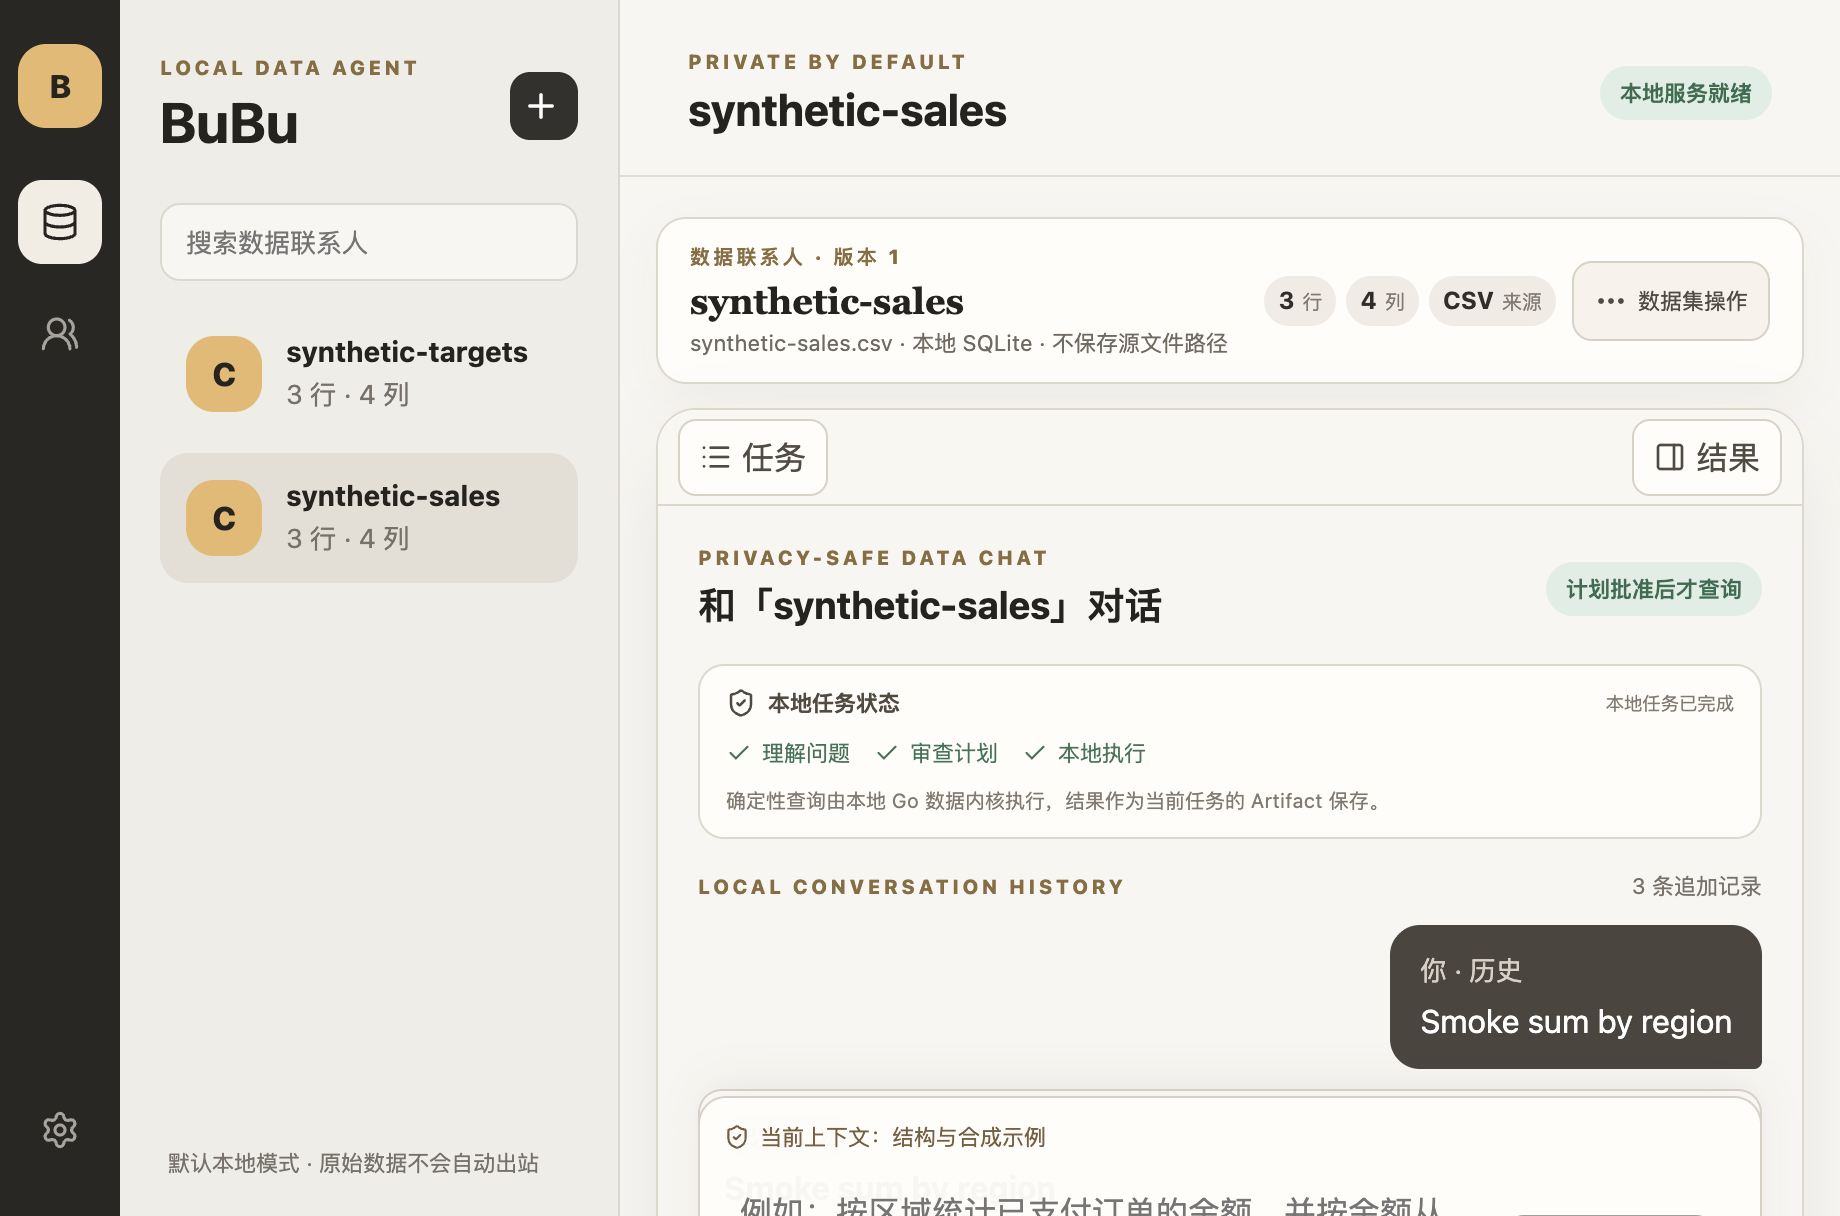
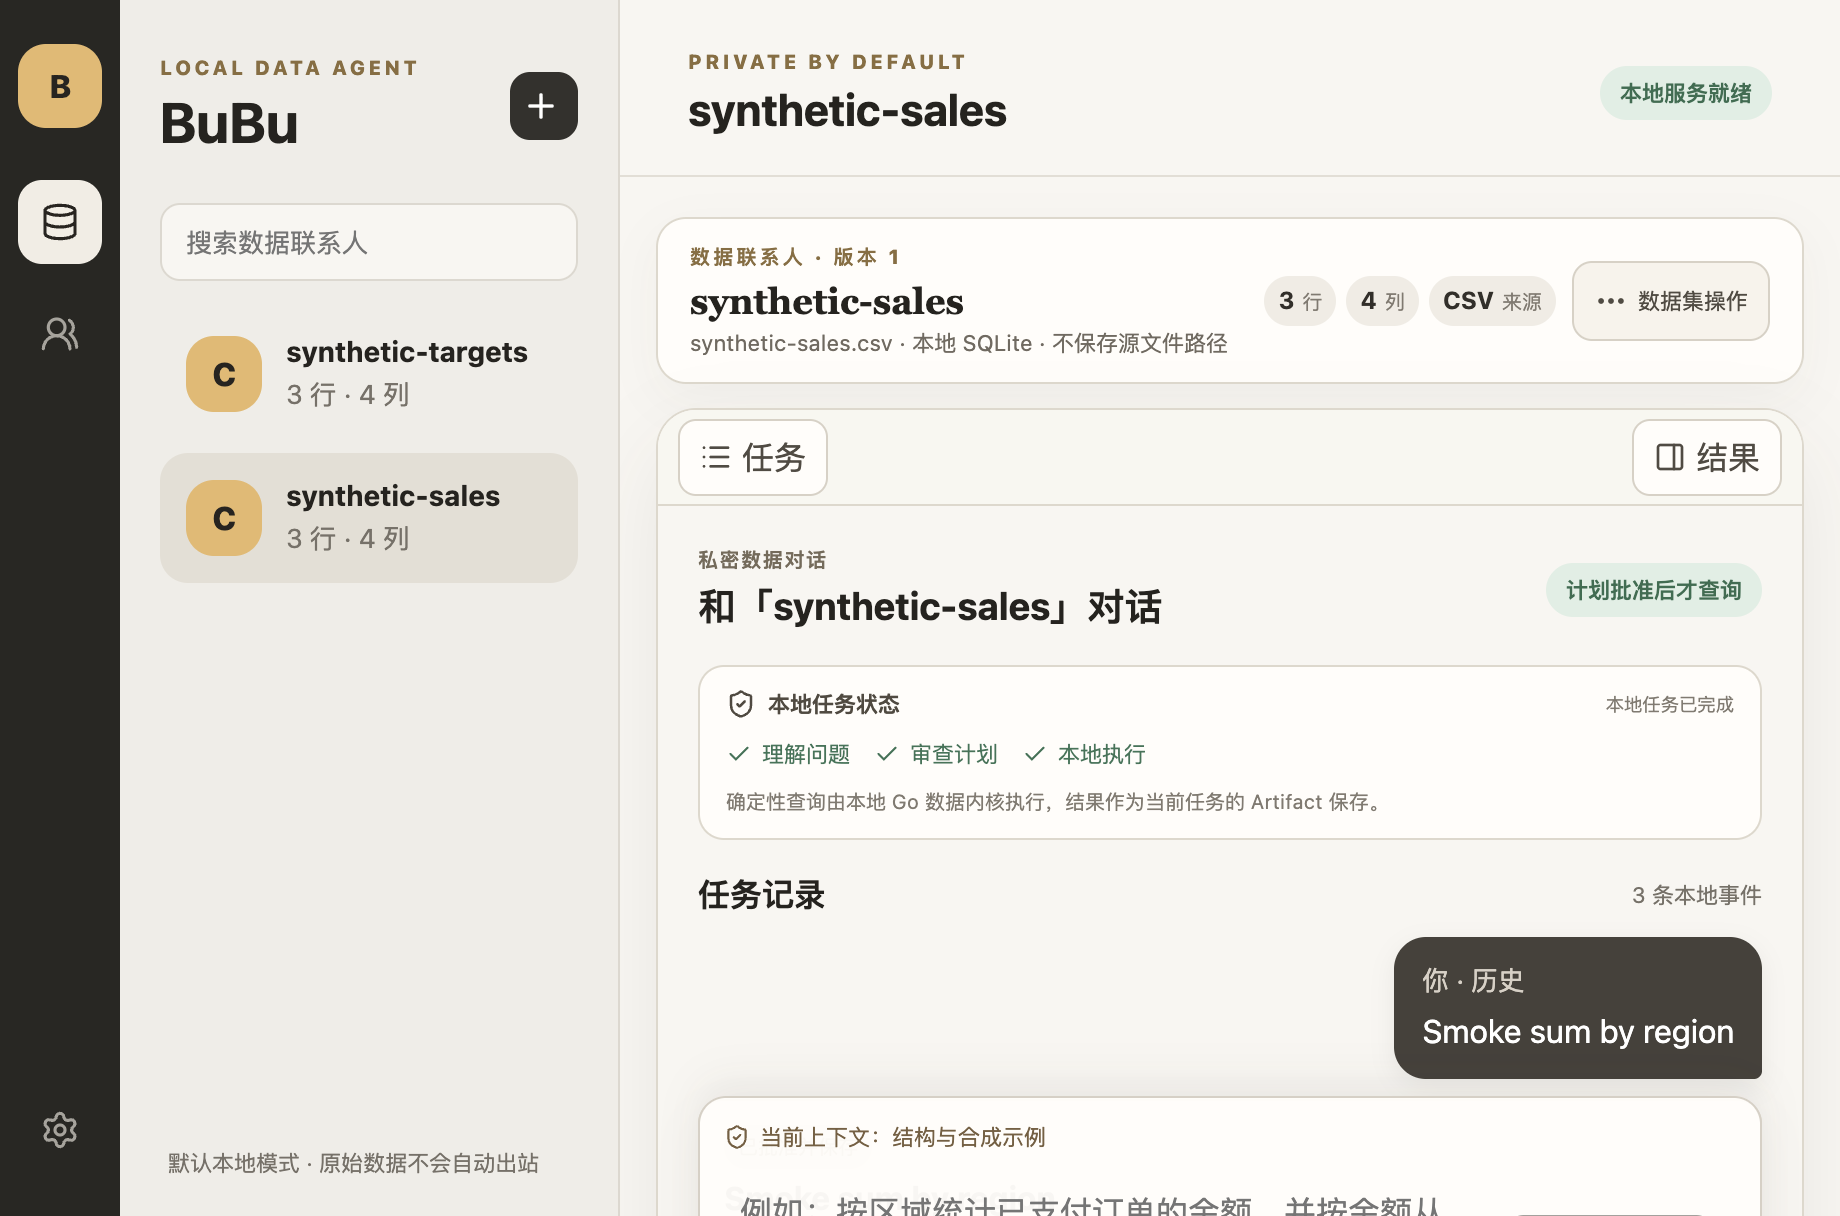
refine semantic chat message grammar

diff --git a/apps/desktop/src/renderer/ChatMessage.tsx b/apps/desktop/src/renderer/ChatMessage.tsx
@@ -1,0 +1,30 @@
+import { Bot, CircleEllipsis, TriangleAlert } from "lucide-react";
+import type { ReactNode } from "react";
+
+export function ChatUserMessage({ children, historical = false }: { readonly children: ReactNode; readonly historical?: boolean }) {
+  return <article className="chat-message chat-message-user" aria-label={historical ? "你的历史消息" : "你的消息"}>
+    <small>{historical ? "你 · 历史" : "你"}</small>
+    <div>{children}</div>
+  </article>;
+}
+
+export function ChatToolEvent({ children, busy = false }: { readonly children: ReactNode; readonly busy?: boolean }) {
+  return <div className={`chat-tool-event ${busy ? "chat-tool-event-busy" : ""}`} role="status" aria-live={busy ? "polite" : "off"}>
+    <CircleEllipsis size={16} aria-hidden="true" />
+    <span>{children}</span>
+  </div>;
+}
+
+export function ChatAssistantMessage({ title, children }: { readonly title: string; readonly children: ReactNode }) {
+  return <article className="chat-message chat-message-assistant" aria-label="BuBu 的消息">
+    <span className="chat-assistant-mark" aria-hidden="true"><Bot size={15} /></span>
+    <div><strong>{title}</strong><div className="chat-assistant-copy">{children}</div></div>
+  </article>;
+}
+
+export function ChatRecoveryMessage({ message, actions }: { readonly message: string; readonly actions: ReactNode }) {
+  return <section className="chat-message chat-message-recovery" role="alert">
+    <TriangleAlert size={18} aria-hidden="true" />
+    <div><strong>这一步没有完成</strong><p>{message}</p><div className="chat-recovery-actions">{actions}</div></div>
+  </section>;
+}

diff --git a/apps/desktop/src/renderer/styles.css b/apps/desktop/src/renderer/styles.css
@@ -280,14 +280,26 @@ td { max-width: 280px; overflow: hidden; text-overflow: ellipsis; color: #4d4841
 .task-run-status header { display: flex; align-items: center; justify-content: space-between; gap: 12px; font-size: 11px; }.task-run-status header span { display: inline-flex; align-items: center; gap: 6px; font-weight: 800; color: #514a40; }.task-run-status header small { color: #817a70; }
 .task-run-status ol { display: flex; gap: 12px; margin: 10px 0 0; padding: 0; list-style: none; }.task-run-status li { display: inline-flex; align-items: center; gap: 5px; color: #9b9489; font-size: 11px; }.task-run-status li svg { flex: 0 0 auto; }.task-run-status .task-step-done { color: #397457; }.task-run-status .task-step-active { color: #9a6a2e; font-weight: 700; }.task-planning .task-step-active svg, .task-executing .task-step-active svg { animation: task-spin 1s linear infinite; }@keyframes task-spin { to { transform: rotate(360deg); } }
 .task-run-status > p { margin: 9px 0 0; font-size: 10px; line-height: 1.45; color: #817a70; }
-.task-error { display: grid; gap: 8px; padding: 14px; border: 1px solid #e1b7aa; border-radius: 12px; color: #7f4032; background: #f9ebe7; }
-.task-error p { margin: 0; line-height: 1.5; }
-.task-error > div { display: flex; flex-wrap: wrap; gap: 8px; }
-.question-bubble { justify-self: end; max-width: 72%; padding: 12px 15px; border-radius: 15px 15px 4px 15px; color: #fff; background: #4b463e; }
-.question-bubble small { color: #d8d0c5; }
-.question-bubble p { margin: 4px 0 0; line-height: 1.5; }
+.chat-context-label { margin: 0 0 3px; font-size: 10px; font-weight: 800; letter-spacing: .08em; color: #766a59; }
+.chat-message { min-width: 0; }
+.chat-message-user { justify-self: end; max-width: min(72%, 620px); padding: 11px 14px; border-radius: 16px 16px 4px 16px; color: #fff; background: #45413a; box-shadow: 0 4px 12px rgba(45, 41, 34, .08); }
+.chat-message-user small { color: #d8d0c5; }
+.chat-message-user p { margin: 4px 0 0; line-height: 1.55; }
+.chat-tool-event { display: flex; align-items: center; gap: 9px; width: fit-content; max-width: 100%; padding: 7px 10px; border: 1px solid #e0d9ce; border-radius: 999px; font-size: 11px; color: #746a5d; background: rgba(255, 253, 249, .72); }
+.chat-tool-event svg { flex: 0 0 auto; color: #9a7746; }
+.chat-tool-event-busy svg { animation: task-spin 1.2s linear infinite; }
+.chat-message-assistant { display: grid; grid-template-columns: 28px minmax(0, 1fr); align-items: start; gap: 10px; max-width: 720px; padding: 4px 0; }
+.chat-assistant-mark { display: grid; place-items: center; width: 28px; height: 28px; border: 1px solid #cbd9cc; border-radius: 9px; color: #3f6e50; background: #edf5ed; }
+.chat-message-assistant strong { display: block; padding-top: 3px; font-size: 13px; color: #3e483e; }
+.chat-assistant-copy p { margin: 5px 0 0; font-size: 12px; line-height: 1.6; color: #626b60; }
+.chat-message-recovery { display: grid; grid-template-columns: 22px minmax(0, 1fr); gap: 9px; padding: 13px; border: 1px solid #e1b7aa; border-radius: 13px; color: #7f4032; background: #f9ebe7; }
+.chat-message-recovery > svg { margin-top: 1px; }
+.chat-message-recovery p { margin: 4px 0 0; line-height: 1.5; }
+.chat-message-recovery small { color: #8a574b; }
+.chat-recovery-actions { display: flex; flex-wrap: wrap; gap: 8px; margin-top: 10px; }
 .analysis-progress { padding: 14px; border-radius: 12px; color: #746a5d; background: #fffdf9; }
 .plan-card, .query-result { overflow: hidden; padding: 20px; border: 1px solid #dcd4c6; border-radius: 16px; background: #fffdf9; }
+.chat-approval-card { border-color: #d6bd92; border-left: 4px solid #b5823d; background: #fffaf1; box-shadow: 0 8px 24px rgba(76, 59, 35, .05); }
 .plan-state { padding: 5px 9px; border-radius: 999px; font-size: 11px; font-weight: 700; color: #8a593f; background: #f2dfd4; }
 .plan-complete { color: #336d50; background: #dfeee4; }
 .plan-grid { display: grid; grid-template-columns: repeat(2, minmax(0, 1fr)); gap: 10px; margin-top: 16px; }
@@ -301,8 +313,9 @@ td { max-width: 280px; overflow: hidden; text-overflow: ellipsis; color: #4d4841
 .plan-actions { display: flex; gap: 9px; margin-top: 14px; }
 .plan-actions .primary-action { margin-top: 0; }
 .query-result { padding: 0; }
-.assistant-conclusion { padding: 15px; border: 1px solid #cfdccc; border-radius: 14px; background: #f7fbf5; }
-.assistant-conclusion p { margin: 7px 0 0; font-size: 12px; line-height: 1.6; color: #5d685a; }
+.chat-result-preview { border-color: #d4ddd3; }
+.chat-result-preview > .table-scroll { max-height: 260px; }
+.chat-result-preview > .chat-message-assistant { padding: 12px 14px; border-top: 1px solid #e1e7df; }
 .analysis-composer { position: sticky; bottom: 0; display: grid; grid-template-columns: minmax(0, 1fr) auto auto; align-items: end; gap: 10px; padding: 12px; border: 1px solid #d7d0c5; border-radius: 14px; background: rgba(255,253,249,.97); box-shadow: 0 -8px 20px rgba(44,39,30,.06); }
 .analysis-composer textarea { min-width: 0; width: 100%; resize: vertical; min-height: 44px; max-height: 150px; padding: 8px; border: 0; outline: none; font: inherit; line-height: 1.5; color: #3d3933; background: transparent; }
 .analysis-composer button { padding: 10px 13px; border: 0; border-radius: 10px; font-weight: 700; color: #fff; background: #34312b; cursor: pointer; }

diff --git a/apps/desktop/src/renderer/DatasetAnalysis.tsx b/apps/desktop/src/renderer/DatasetAnalysis.tsx
@@ -12,6 +12,7 @@ import { useConversationThread } from "./useConversationThread.js";
 import { AggregateExplanationPanel } from "./AggregateExplanationPanel.js";
 import { AggregateAgentPanel } from "./AggregateAgentPanel.js";
 import { TaskRunStatus } from "./TaskRunStatus.js";
+import { ChatAssistantMessage, ChatRecoveryMessage, ChatToolEvent, ChatUserMessage } from "./ChatMessage.js";
 
 type AnalysisState = "idle" | "planning" | "proposed" | "executing" | "complete" | "failed";
 
@@ -140,7 +141,7 @@ export function DatasetAnalysis({ datasetId, datasetName, threadId, onCreateThre
     <section className="analysis-panel" aria-label={`与 ${datasetName} 对话`}>
       <header className="analysis-header">
         <div>
-          <p className="hero-kicker">PRIVACY-SAFE DATA CHAT</p>
+          <p className="chat-context-label">私密数据对话</p>
           <h3>和「{datasetName}」对话</h3>
         </div>
         <span className="mode-pill">计划批准后才查询</span>
@@ -150,19 +151,16 @@ export function DatasetAnalysis({ datasetId, datasetName, threadId, onCreateThre
       <ConversationHistory thread={history} hideQuestion={submittedQuestion} hideLatestResult={result !== undefined} />
 
       {submittedQuestion && (
-        <div className="question-bubble">
-          <small>你</small>
-          <p>{submittedQuestion}</p>
-        </div>
+        <ChatUserMessage><p>{submittedQuestion}</p></ChatUserMessage>
       )}
-      {state === "planning" && <div className="analysis-progress">正在用结构和合成示例生成受限查询计划…</div>}
-      {error && <div className="task-error" role="alert"><strong>这一步没有完成</strong><p>{error}</p><div><button type="button" className="primary-action" onClick={() => void propose(submittedQuestion)} disabled={!submittedQuestion}>重试生成计划</button><button type="button" className="secondary-action" onClick={() => { setQuestion(submittedQuestion ?? question); setSubmittedQuestion(undefined); setProposal(undefined); setResult(undefined); setError(undefined); setState("idle"); }}>修改问题</button></div></div>}
+      {state === "planning" && <ChatToolEvent busy>正在用结构和合成示例生成受限查询计划…</ChatToolEvent>}
+      {error && <ChatRecoveryMessage message={error} actions={<><button type="button" className="primary-action" onClick={() => void propose(submittedQuestion)} disabled={!submittedQuestion}>重试生成计划</button><button type="button" className="secondary-action" onClick={() => { setQuestion(submittedQuestion ?? question); setSubmittedQuestion(undefined); setProposal(undefined); setResult(undefined); setError(undefined); setState("idle"); }}>修改问题</button></>} />}
 
       {proposal && (
-        <article className="plan-card">
+        <article className="plan-card chat-approval-card">
           <header>
             <div>
-              <p className="hero-kicker">REVIEW BEFORE EXECUTION</p>
+              <p className="chat-context-label">需要你的批准</p>
               <h4>{proposal.plan.purpose}</h4>
             </div>
             <span className={state === "complete" ? "plan-state plan-complete" : "plan-state"}>
@@ -198,23 +196,23 @@ export function DatasetAnalysis({ datasetId, datasetName, threadId, onCreateThre
 
       {result && (
         <>
-        <article className="query-result">
+        <article className="query-result chat-result-preview">
           <header className="preview-header">
-            <div><p className="hero-kicker">LOCAL QUERY RESULT</p><h3>结果</h3></div>
+            <div><small>本地结果预览</small><h3>结果</h3></div>
             <span>{result.rows.length} 行{result.truncated ? " · 已按计划截断" : ""}</span>
           </header>
           <div className="table-scroll">
             <table>
               <thead><tr>{result.columns.map((column) => <th key={column.label}>{column.label}<small>{column.type}</small></th>)}</tr></thead>
               <tbody>
-                {result.rows.map((row, rowIndex) => <tr key={rowIndex}>{row.map((cell, columnIndex) => <td key={result.columns[columnIndex]?.label ?? columnIndex}>{cell === null ? <span className="null-value">—</span> : String(cell)}</td>)}</tr>)}
+                {result.rows.slice(0, 5).map((row, rowIndex) => <tr key={rowIndex}>{row.map((cell, columnIndex) => <td key={result.columns[columnIndex]?.label ?? columnIndex}>{cell === null ? <span className="null-value">—</span> : String(cell)}</td>)}</tr>)}
               </tbody>
             </table>
           </div>
           {result.rows.length === 0 && <p className="empty-copy">这个计划没有找到匹配的数据。</p>}
         </article>
         <ResultVisualization result={result} title={proposal?.plan.purpose ?? submittedQuestion ?? "查询结果"} />
-        <article className="assistant-conclusion"><p className="hero-kicker">BUBU · LOCAL RESULT</p><strong>结果已准备好。</strong><p>我已在本地执行经过审查的计划。右侧可继续查看数据、图表、计划与审计证据。</p></article>
+        <ChatAssistantMessage title="结果已准备好"><p>我已在本地执行经过审查的计划。完整数据、图表、计划与审计证据都在结果区。</p></ChatAssistantMessage>
         </>
       )}
 

diff --git a/apps/desktop/src/renderer/ConversationHistory.tsx b/apps/desktop/src/renderer/ConversationHistory.tsx
@@ -1,7 +1,7 @@
 import type { ConversationThread, DatasetGroup } from "../shared/product-api.js";
-import { ResultVisualization } from "./ResultVisualization.js";
 import { AggregateExplanationCard } from "./AggregateExplanationCard.js";
 import { AggregateAgentCard } from "./AggregateAgentCard.js";
+import { ChatAssistantMessage, ChatRecoveryMessage, ChatUserMessage } from "./ChatMessage.js";
 
 function localResultLabel(group: DatasetGroup | undefined, label: string): string {
   if (!group) return label;
@@ -25,21 +25,21 @@ export function ConversationHistory({
   if (!thread || thread.entries.length === 0) return null;
   return (
     <section className="conversation-history" aria-label="本地历史对话">
-      <header><p className="hero-kicker">LOCAL CONVERSATION HISTORY</p><span>{thread.entries.length} 条追加记录</span></header>
+      <header><strong>任务记录</strong><span>{thread.entries.length} 条本地事件</span></header>
       {thread.entries.map((entry) => {
         if (entry.kind === "question") {
           if (hideQuestion === entry.payload.question) return null;
-          return <div className="question-bubble history-question" key={entry.id}><small>你 · 历史</small><p>{entry.payload.question}</p></div>;
+          return <ChatUserMessage historical key={entry.id}><p>{entry.payload.question}</p></ChatUserMessage>;
         }
         if (entry.kind === "plan") {
-          return <article className="history-plan" key={entry.id}>
-            <span>已审查计划</span>
+          return <article className="history-plan chat-approval-card" key={entry.id}>
+            <span>已批准并保存</span>
             <strong>{entry.payload.proposal.plan.purpose}</strong>
             <small>结果只会在本地执行；发送上下文保存在本地审计记录中。</small>
           </article>;
         }
         if (entry.kind === "error") {
-          return <div className="notice error-text" role="status" key={entry.id}>{entry.payload.message}</div>;
+          return <ChatRecoveryMessage key={entry.id} message={entry.payload.message} actions={<small>回到这个任务后可修改问题并重试。</small>} />;
         }
         if (entry.kind === "insight") {
           if ("explanation" in entry.payload) {
@@ -49,13 +49,13 @@ export function ConversationHistory({
         }
         const result = entry.payload.result;
         if (hideLatestResult && entry.id === thread.entries.findLast(({ kind }) => kind === "result")?.id) return null;
-        return <div className="history-result" key={entry.id}>
-          <header className="preview-header"><div><p className="hero-kicker">SAVED LOCAL RESULT</p><h3>历史结果</h3></div><span>{result.rows.length} 行{result.truncated ? " · 已截断" : ""}</span></header>
+        return <div className="history-result chat-result-preview" key={entry.id}>
+          <header className="preview-header"><div><small>本地结果</small><h3>历史结果</h3></div><span>{result.rows.length} 行{result.truncated ? " · 已截断" : ""}</span></header>
           <div className="table-scroll"><table>
             <thead><tr>{result.columns.map((column) => <th key={column.label}>{localResultLabel(group, column.label)}<small>{column.type}</small></th>)}</tr></thead>
-            <tbody>{result.rows.map((row, rowIndex) => <tr key={rowIndex}>{row.map((cell, columnIndex) => <td key={result.columns[columnIndex]?.label ?? columnIndex}>{cell === null ? <span className="null-value">—</span> : String(cell)}</td>)}</tr>)}</tbody>
+            <tbody>{result.rows.slice(0, 5).map((row, rowIndex) => <tr key={rowIndex}>{row.map((cell, columnIndex) => <td key={result.columns[columnIndex]?.label ?? columnIndex}>{cell === null ? <span className="null-value">—</span> : String(cell)}</td>)}</tr>)}</tbody>
           </table></div>
-          <ResultVisualization result={result} title={thread.title} />
+          <ChatAssistantMessage title="结果仍可继续使用"><p>完整数据、图表、计划与审计证据保存在结果区。</p></ChatAssistantMessage>
         </div>;
       })}
     </section>

diff --git a/apps/desktop/src/renderer/DatasetGroupAnalysis.tsx b/apps/desktop/src/renderer/DatasetGroupAnalysis.tsx
@@ -13,6 +13,7 @@ import { useConversationThread } from "./useConversationThread.js";
 import { AggregateExplanationPanel } from "./AggregateExplanationPanel.js";
 import { AggregateAgentPanel } from "./AggregateAgentPanel.js";
 import { TaskRunStatus } from "./TaskRunStatus.js";
+import { ChatAssistantMessage, ChatRecoveryMessage, ChatToolEvent, ChatUserMessage } from "./ChatMessage.js";
 
 type GroupAnalysisState = "idle" | "planning" | "proposed" | "executing" | "complete" | "failed";
 
@@ -126,7 +127,7 @@ export function DatasetGroupAnalysis({ group, threadId, onCreateThread }: { read
   return (
     <section className="analysis-panel group-analysis" aria-label={`与群组 ${group.name} 对话`}>
       <header className="analysis-header">
-        <div><p className="hero-kicker">PRIVATE MULTI-TABLE CHAT</p><h3>和群组对话</h3></div>
+        <div><p className="chat-context-label">私密多表对话</p><h3>和群组对话</h3></div>
         <span className="mode-pill">等值关联 · 禁止笛卡尔积</span>
       </header>
       <TaskRunStatus state={state} startedAt={startedAt} completedAt={completedAt} />
@@ -134,14 +135,14 @@ export function DatasetGroupAnalysis({ group, threadId, onCreateThread }: { read
       <div className="group-source-order">
         {group.members.map((member, index) => <span key={member.id}><strong>{index + 1}</strong>{member.displayName}</span>)}
       </div>
-      {submittedQuestion && <div className="question-bubble"><small>你</small><p>{submittedQuestion}</p></div>}
-      {state === "planning" && <div className="analysis-progress">正在根据每个成员的结构和合成示例生成关联树…</div>}
-      {error && <div className="task-error" role="alert"><strong>这一步没有完成</strong><p>{error}</p><div><button type="button" className="primary-action" onClick={() => void propose(submittedQuestion)} disabled={!submittedQuestion}>重试生成计划</button><button type="button" className="secondary-action" onClick={() => { setQuestion(submittedQuestion ?? question); setSubmittedQuestion(undefined); setProposal(undefined); setResult(undefined); setError(undefined); setState("idle"); }}>修改问题</button></div></div>}
+      {submittedQuestion && <ChatUserMessage><p>{submittedQuestion}</p></ChatUserMessage>}
+      {state === "planning" && <ChatToolEvent busy>正在根据每个成员的结构和合成示例生成关联树…</ChatToolEvent>}
+      {error && <ChatRecoveryMessage message={error} actions={<><button type="button" className="primary-action" onClick={() => void propose(submittedQuestion)} disabled={!submittedQuestion}>重试生成计划</button><button type="button" className="secondary-action" onClick={() => { setQuestion(submittedQuestion ?? question); setSubmittedQuestion(undefined); setProposal(undefined); setResult(undefined); setError(undefined); setState("idle"); }}>修改问题</button></>} />}
 
       {proposal && (
-        <article className="plan-card">
+        <article className="plan-card chat-approval-card">
           <header>
-            <div><p className="hero-kicker">REVIEW JOIN TREE</p><h4>{proposal.plan.purpose}</h4></div>
+            <div><p className="chat-context-label">需要你的批准</p><h4>{proposal.plan.purpose}</h4></div>
             <span className={state === "complete" ? "plan-state plan-complete" : "plan-state"}>{state === "complete" ? "已本地执行" : "尚未执行"}</span>
           </header>
           <div className="join-tree">
@@ -182,15 +183,16 @@ export function DatasetGroupAnalysis({ group, threadId, onCreateThread }: { read
       )}
 
       {result && <>
-      <article className="query-result">
-        <header className="preview-header"><div><p className="hero-kicker">LOCAL JOIN RESULT</p><h3>关联结果</h3></div><span>{result.rows.length} 行{result.truncated ? " · 已截断" : ""}</span></header>
+      <article className="query-result chat-result-preview">
+        <header className="preview-header"><div><small>本地结果预览</small><h3>关联结果</h3></div><span>{result.rows.length} 行{result.truncated ? " · 已截断" : ""}</span></header>
         <div className="table-scroll"><table>
           <thead><tr>{result.columns.map((column) => <th key={column.label}>{resultLabel(group, column.label)}<small>{column.type}</small></th>)}</tr></thead>
-          <tbody>{result.rows.map((row, rowIndex) => <tr key={rowIndex}>{row.map((cell, columnIndex) => <td key={result.columns[columnIndex]?.label ?? columnIndex}>{cell === null ? <span className="null-value">—</span> : String(cell)}</td>)}</tr>)}</tbody>
+          <tbody>{result.rows.slice(0, 5).map((row, rowIndex) => <tr key={rowIndex}>{row.map((cell, columnIndex) => <td key={result.columns[columnIndex]?.label ?? columnIndex}>{cell === null ? <span className="null-value">—</span> : String(cell)}</td>)}</tr>)}</tbody>
         </table></div>
         {result.rows.length === 0 && <p className="empty-copy">这个关联计划没有找到匹配的数据。</p>}
       </article>
       <ResultVisualization result={result} title={proposal?.plan.purpose ?? submittedQuestion ?? "群组查询结果"} />
+      <ChatAssistantMessage title="关联结果已准备好"><p>关联计划已在本地执行。完整数据、图表、计划与审计证据都在结果区。</p></ChatAssistantMessage>
       </>}
 
       {result && proposal && threadId && <AggregateExplanationPanel plan={proposal.plan} threadId={threadId} />}

diff --git a/apps/desktop/src/main.ts b/apps/desktop/src/main.ts
@@ -155,7 +155,7 @@ async function verifySmokeRenderer(
         "本地任务状态",
         "LOCAL ARTIFACT",
         "先生成计划",
-        "LOCAL CONVERSATION HISTORY",
+        "任务记录",
         "结果已准备好"
       ];
       const deadline = Date.now() + 5000;

diff --git a/docs/product/conversation-workbench.md b/docs/product/conversation-workbench.md
@@ -23,6 +23,8 @@ Errors retain a recovery path: retry plan generation or return the submitted tex
 
 The workbench adapts to its own available width rather than a device label. Wide mode keeps tasks, chat, and Artifact together. Medium mode keeps tasks beside chat and opens Artifact as a supporting panel. Compact mode preserves chat as the primary pane and opens **任务** or **结果** as keyboard-accessible drawers. Empty chat states include a direct task-creation action and never refer to a possibly hidden “left side.” The product contract requires bounded internal scrolling and no page-level horizontal overflow at the packaged 920 × 640 minimum.
 
+The center timeline uses one stable message grammar: user prompts are right-aligned bubbles; assistant narration is a calm, unboxed response with a BuBu marker; transient system/tool activity is a compact status row; typed plans are the only warm approval cards; failures are recovery cards with the next safe actions; and local results appear as five-row previews that point to the durable Artifact workspace. English decorative kickers are not used to simulate product hierarchy.
+
 ## Trust model
 
 The question text is model input and must not contain pasted sensitive rows. Automatically prepared context is limited to the disclosure shown in the review. Remote model planning, deterministic local execution, and optional aggregate explanation are different events with separate authority and audit records.

diff --git a/docs/product/ui-ux-guidelines.md b/docs/product/ui-ux-guidelines.md
@@ -16,6 +16,7 @@ The primary journey is import → inspect → ask → review → approve → use
 - Workbench panes respond to available container width: wide shows tasks, chat, and Artifact; medium keeps tasks beside chat and opens Artifact as a supporting panel; compact keeps chat primary and exposes task/result drawers. The Artifact workspace may expand for data or automation work, but closing it must return to the current task.
 - Dataset and group identity remain in a compact context bar. Export, replacement, deletion, and membership management are secondary object operations and must not visually outrank starting or continuing a task.
 - A task status strip exposes the current causal step—understanding, review, local execution—without pretending that an in-progress model call has already produced a result. Automation belongs in the Artifact inspector, where a reviewed plan can be made repeatable without leaving the task context.
+- Message form communicates authority: user input is a right-side bubble, assistant narrative is visually quiet, tool activity is a compact event row, approval is a unique card, failure is a recovery surface, and result data is a bounded preview. Full tables and evidence belong to Artifact instead of being repeated in the dialogue.
 - The workspace header states the active entity and current product state. Primary actions belong near the object they affect; destructive actions require explicit language and confirmation.
 - At the supported packaged smoke viewport of 920 × 640, every primary journey must remain readable without horizontal page overflow. Dense tables, schema, JSON, and audit content may scroll inside bounded regions.
 
@@ -68,6 +69,7 @@ Packaged synthetic screenshots are generated by `npm run capture:ui`; the harnes
 | Conversation hierarchy | Dataset preview and management cards pushed chat below the first viewport | Keep only a compact entity summary above the workbench; move preview and quality into the data-context inspector | current packaged screenshots |
 | Workflow ownership | Target-only delivery could append an automated result to a different thread | Persist `threadId`, validate the source plan in that thread, migrate old definitions, and deliver only to the bound active thread | Go regression tests and product verifier |
 | Compact workbench | Four horizontal surfaces overflowed the supported minimum width | Preserve the center chat and expose task/result drawers with keyboard state and reduced-motion handling | packaged smoke and `verify:product-experience` |
+| Chat message hierarchy | Plans, progress, results, errors, and narration all looked like interchangeable cards, while large result tables duplicated Artifact | Give every message authority a stable visual grammar and limit dialogue results to five-row previews | `ChatMessage.tsx`, packaged screenshots, and product verifier |
 
 ![Dataset workspace](../assets/product/01-datasets.png)
 